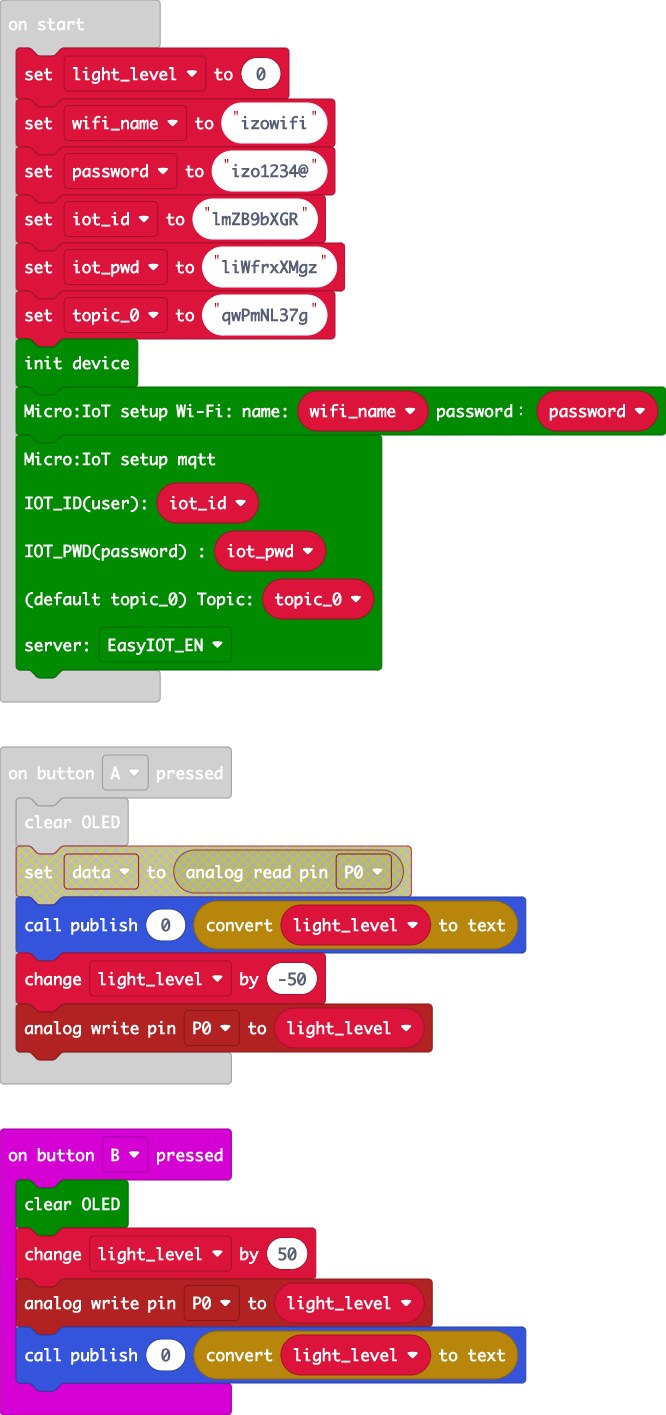
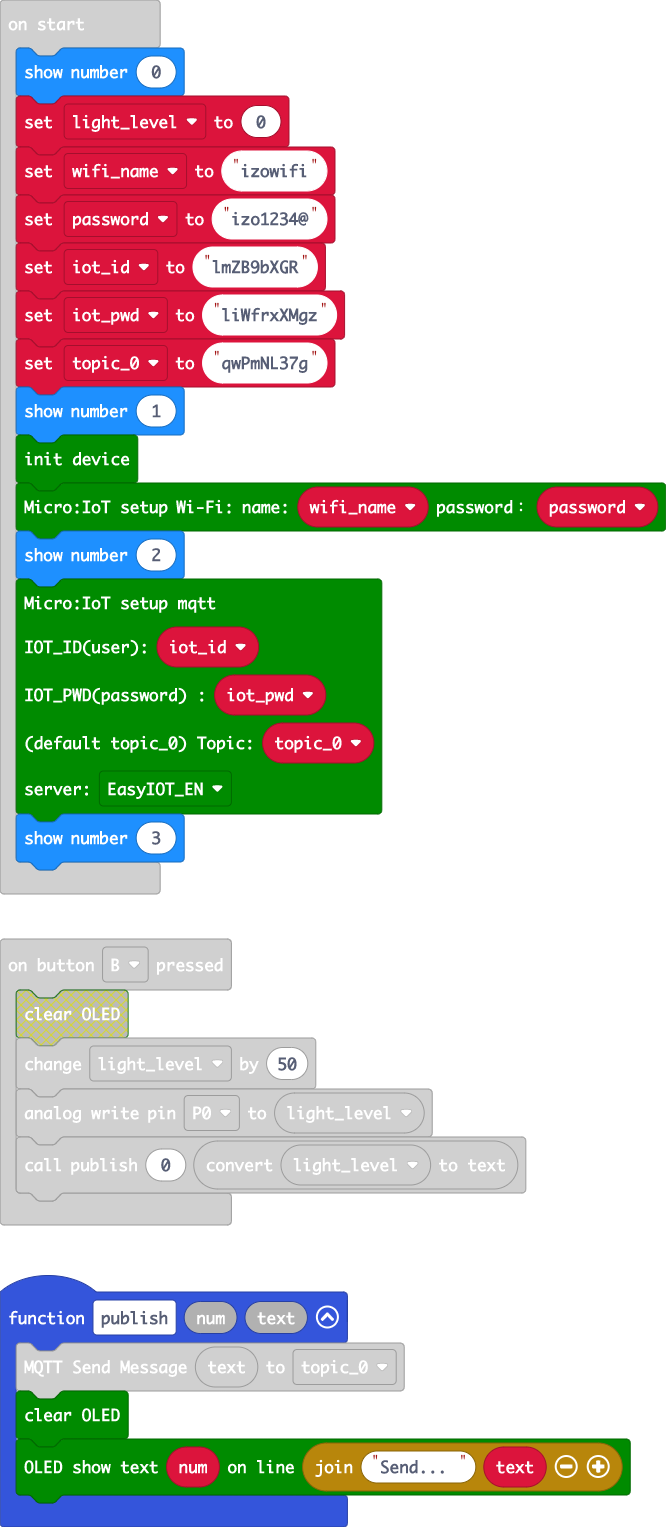
add debug

diff --git a/main.ts b/main.ts
@@ -6,29 +6,33 @@ input.onButtonPressed(Button.A, function () {
 })
 function publish (num: number, text: string) {
     microIoT.microIoT_SendMessage(text, microIoT.TOPIC.topic_0)
+    microIoT.microIoT_clear()
     microIoT.microIoT_showUserText(num, "Send... " + text)
 }
 input.onButtonPressed(Button.AB, function () {
     control.reset()
 })
 input.onButtonPressed(Button.B, function () {
-    microIoT.microIoT_clear()
     light_level += 50
     pins.analogWritePin(AnalogPin.P0, light_level)
     publish(0, convertToText(light_level))
 })
 let light_level = 0
+basic.showNumber(0)
 light_level = 0
 let wifi_name = "izowifi"
 let password = "izo1234@"
 let iot_id = "lmZB9bXGR"
 let iot_pwd = "liWfrxXMgz"
 let topic_0 = "qwPmNL37g"
+basic.showNumber(1)
 microIoT.microIoT_initDisplay()
 microIoT.microIoT_WIFI(wifi_name, password)
+basic.showNumber(2)
 microIoT.microIoT_MQTT(
 iot_id,
 iot_pwd,
 topic_0,
 microIoT.SERVERS.English
 )
+basic.showNumber(3)
